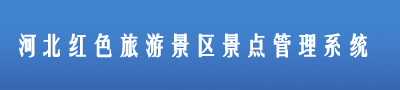
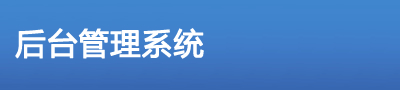
update some template

Changed region(s): [[0.03, 0.3111, 0.93, 0.6667]]

diff --git a/templates/honhun/menu_top.php b/templates/honhun/menu_top.php
@@ -7,15 +7,13 @@ if(!defined('SYS_IN')) {
 	<span style="float:right;margin-right:10px;">
 		欢迎你：<?php echo $_SESSION['admin_username'];?> 你的身份是：<?php echo $_SESSION['usergroupname'];?>
 	</span>
-	<img src="<?php echo ADMIN_TEMPLATE_URL?>/images/Announce.gif" />
-	<span style="width:500px;">
-	<marquee onMouseOver="this.stop()" onMouseOut="this.start()" scrollamount="1" scrolldelay="4" align="left" width="500">欢迎使用<?php echo SITE_NAME?>！</marquee>
-	</span>
-	
+	<span style="width:500px;">	
+	</span>	
 </div>
+
 <div id="top">
 	<div id="banner">
-		
+		<span class="logo"><?php echo SITE_NAME;?></span>
 	</div>
 	<div id="banner_menu">
 		<div class="login_status"></div>

diff --git a/templates/admin/menu_top.php b/templates/admin/menu_top.php
@@ -5,7 +5,7 @@ if(!defined('SYS_IN')) {
 ?>
 <div id="top">
 	<div id="banner">
-		
+		<span class="logo"><?php echo SITE_NAME;?></span>
 	</div>
 	<div id="banner_menu">
 		<div class="login_status">欢迎你：<?php echo $_SESSION['admin_username'];?> 你的身份是：<?php echo $_SESSION['usergroupname'];?></div>

diff --git a/configs/customize.php b/configs/customize.php
@@ -3,7 +3,7 @@ if (!defined('SYS_IN')) {
 	exit('Access Denied');
 }
 return array(
-	'site_name' => '网店管理系统',
+	'site_name' => '后台管理系统',
 	'timezone' => 'Asia/Shanghai',
 	'timeoffset' => '8',
 	'lang' => 'zh-cn', // 网站语言包

diff --git a/templates/admin/header.php b/templates/admin/header.php
@@ -46,7 +46,7 @@ $().ready(function(){
 			$("#navbar").show();
 			$("#leftmunectrl").attr("ctvalue",1);
 			$("#leftmunectrl").html("隐藏菜单");
-			$(".pageMain").width("80%");
+			$(".pageMain").width("81%");
 		}
 	}
 });
